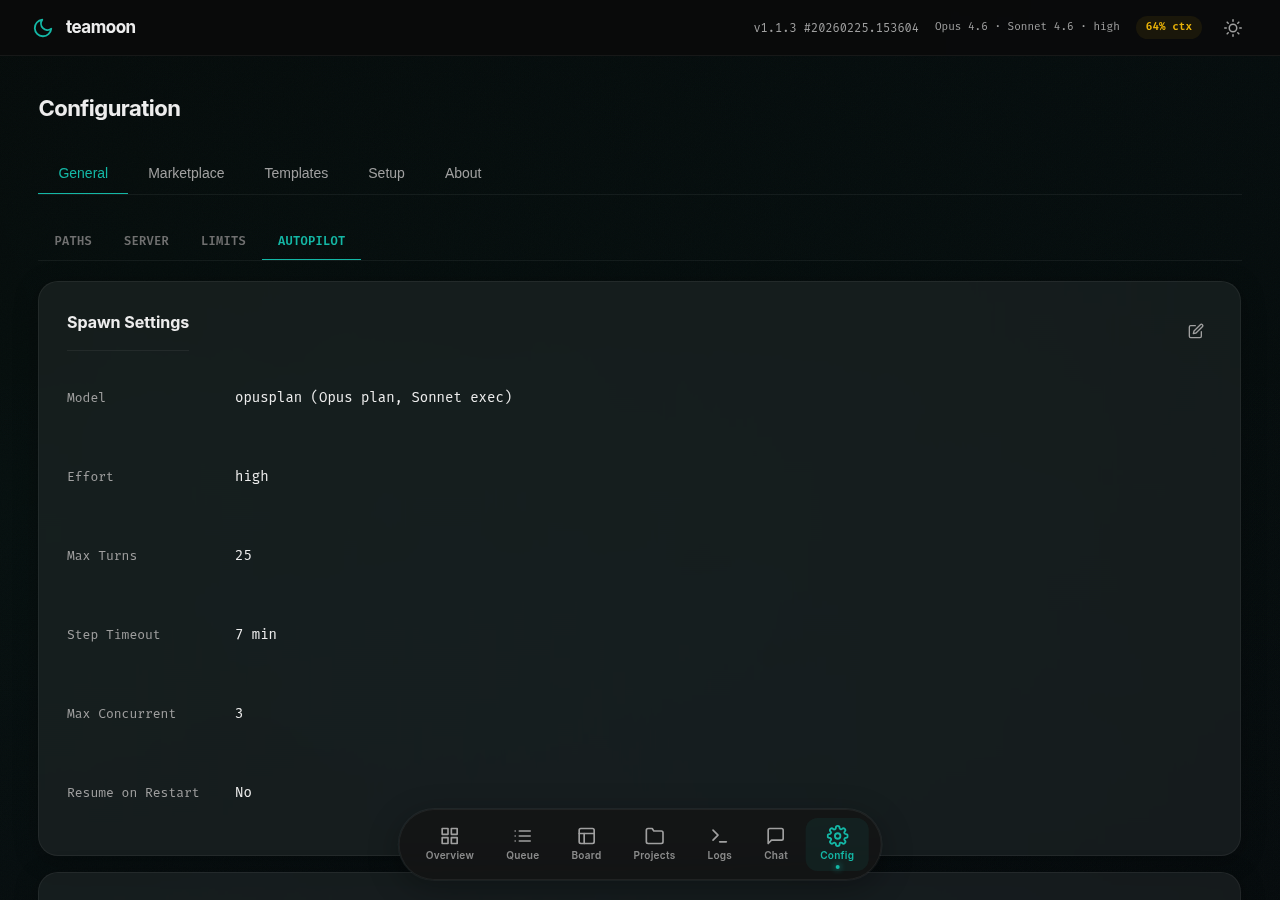
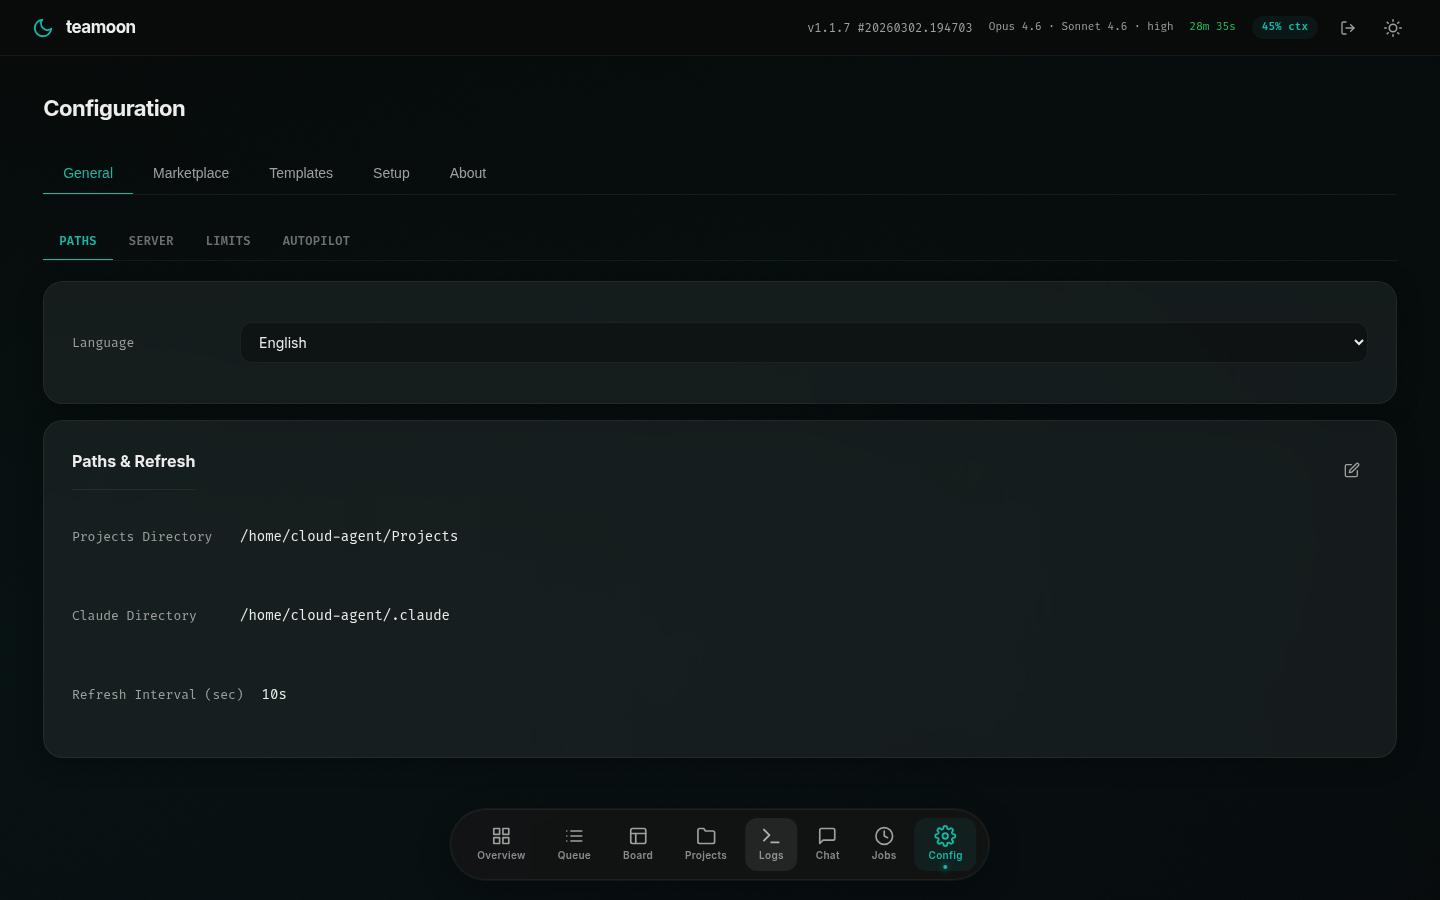
📝 docs(core): update screenshots and readme with new views and light mode

diff --git a/README.md b/README.md
@@ -113,15 +113,25 @@ pre-commit install --hook-type pre-push
 
 ## 🌐 Web Dashboard
 
+### 🔐 Login
+
+Session-based authentication with password protection. Supports dark and light themes.
+
+| Dark                                      | Light                                            |
+| ----------------------------------------- | ------------------------------------------------ |
+| ![Login Dark](docs/screenshots/login.png) | ![Login Light](docs/screenshots/login-light.png) |
+
 ### 📊 Overview
 
 Real-time dashboard showing tokens, sessions, cost, context usage, queue summary, and recent activity — all updated via Server-Sent Events.
 
-![Dashboard](docs/screenshots/dashboard.png)
+| Dark                                              | Light                                                    |
+| ------------------------------------------------- | -------------------------------------------------------- |
+| ![Dashboard Dark](docs/screenshots/dashboard.png) | ![Dashboard Light](docs/screenshots/dashboard-light.png) |
 
 ### 📋 Queue
 
-Priority-sorted task list with inline controls to run, stop, replan, or archive tasks. Filter by state, project, or priority.
+Priority-sorted task list with inline controls to run, stop, replan, or archive tasks. Filter by state, project, or priority. Wave badges for batch execution grouping.
 
 ![Queue](docs/screenshots/queue.png)
 
@@ -133,9 +143,11 @@ Kanban-style board with tasks organized by state. Drag and drop to move tasks be
 
 ### 📁 Projects
 
-Auto-discovered projects from your workspace showing git branch, modified file count, and last commit. Start autopilot per-project or create tasks directly.
+Auto-discovered projects from your workspace showing git branch, modified file count, and last commit. Click any project for a detailed view with tasks, skeleton config, and recent activity.
 
 ![Projects](docs/screenshots/projects.png)
+
+![Project Detail](docs/screenshots/project-detail.png)
 
 ### 📝 Logs
 
@@ -147,9 +159,15 @@ Filterable log stream with level, task, project, and agent filters. Auto-scrolls
 
 Direct chat interface for interacting with Claude. Send messages, view responses with per-turn cost tracking.
 
-![Chat](docs/screenshots/chat-tetris.png)
-
 ![Chat](docs/screenshots/chat.png)
+
+![Chat Response](docs/screenshots/chat-response.png)
+
+### ⚙ Jobs
+
+Scheduled cron jobs for automated tasks. Configure schedule, project, and description per job.
+
+![Jobs](docs/screenshots/jobs.png)
 
 ### ⚙ Configuration
 
